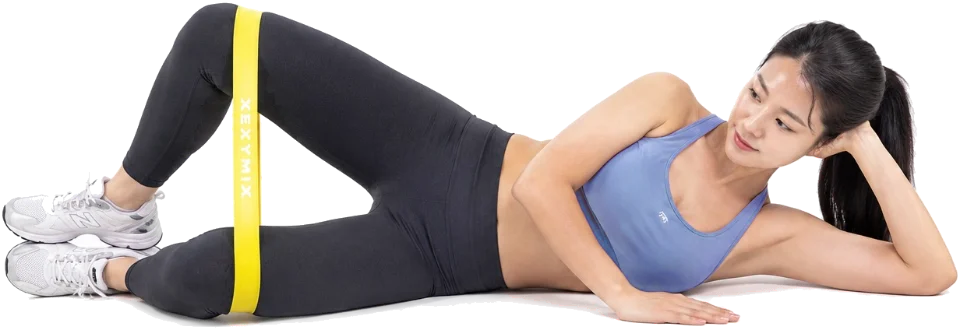
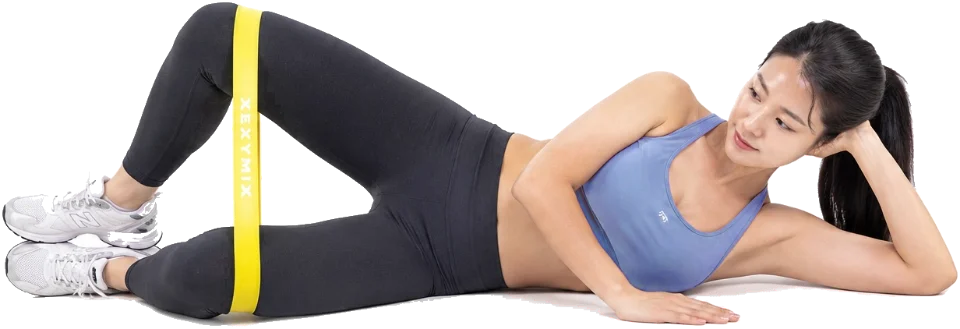
실루엣에 남던 흰 조각 제거
접지 그림자를 걷어낸 뒤에도 머리카락 아래와 발뒤꿈치 밑에 창백한
무채색 조각이 붙어 있었음. 운동화도 같은 색이지만 덩어리 크기가
수십 배 차이나므로, 배경에 닿아 있으면서 2500픽셀 미만인 덩어리만
마지막에 쓸어내도록 함

Claude-Session: https://claude.ai/code/session_01VAsmy4W6XrH66spYPZrFX9

diff --git a/app.js b/app.js
@@ -48,9 +48,9 @@ const FIG = {
   singleLeg: { src:'img/single-leg.webp',      w:354, h:960, sm:'img/single-leg-sm.webp',     smW:440, smH:426 },
   wallSit:   { src:'img/wall-sit.webp',       w:534, h:960, sm:'img/wall-sit-sm.webp',       smW:440, smH:426 },
   hipBridge: { src:'img/hip-bridge.webp',     w:960, h:365, sm:'img/hip-bridge-sm.webp',     smW:440, smH:426 },
-  clamshell: { src:'img/clamshell.webp',       w:960, h:330, sm:'img/clamshell-sm.webp',     smW:440, smH:426 },
+  clamshell: { src:'img/clamshell.webp',       w:960, h:329, sm:'img/clamshell-sm.webp',     smW:440, smH:426 },
   legRaise:  { src:'img/side-leg-raise.webp', w:960, h:361, sm:'img/side-leg-raise-sm.webp', smW:440, smH:426 },
-  hamstring: { src:'img/hamstring.webp',      w:960, h:569, sm:'img/hamstring-sm.webp',     smW:440, smH:426 },
+  hamstring: { src:'img/hamstring.webp',      w:960, h:572, sm:'img/hamstring-sm.webp',     smW:440, smH:426 },
 };
 // the leg-raise photo shows the left leg lifted; mirror it for the right side
 function shot(key, alt, opt){
